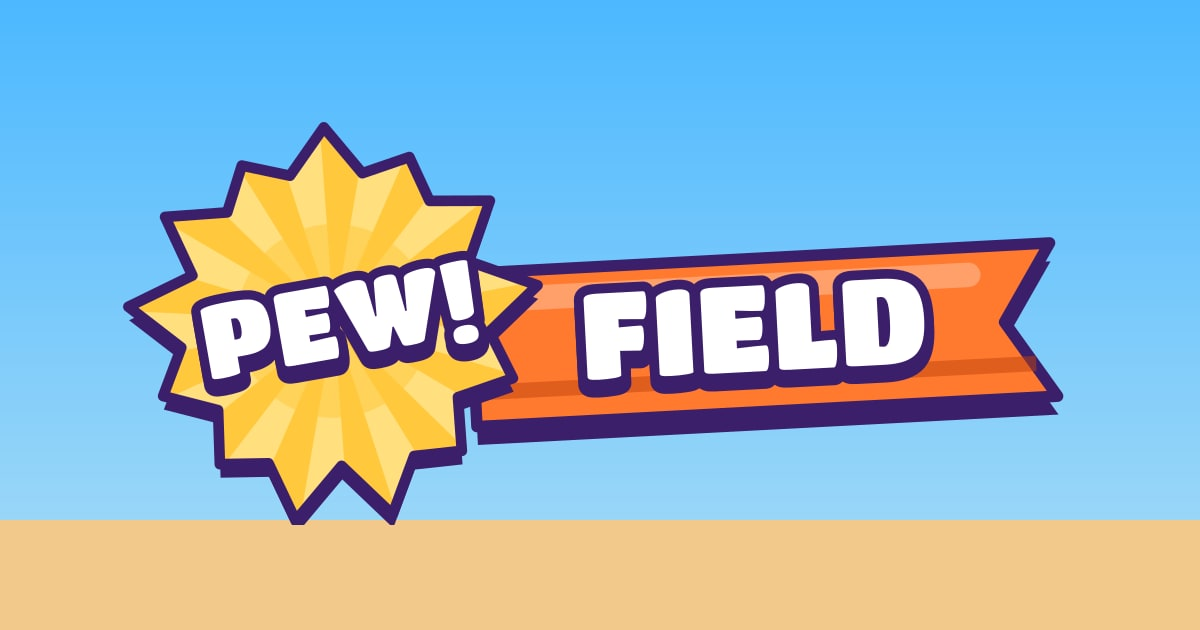
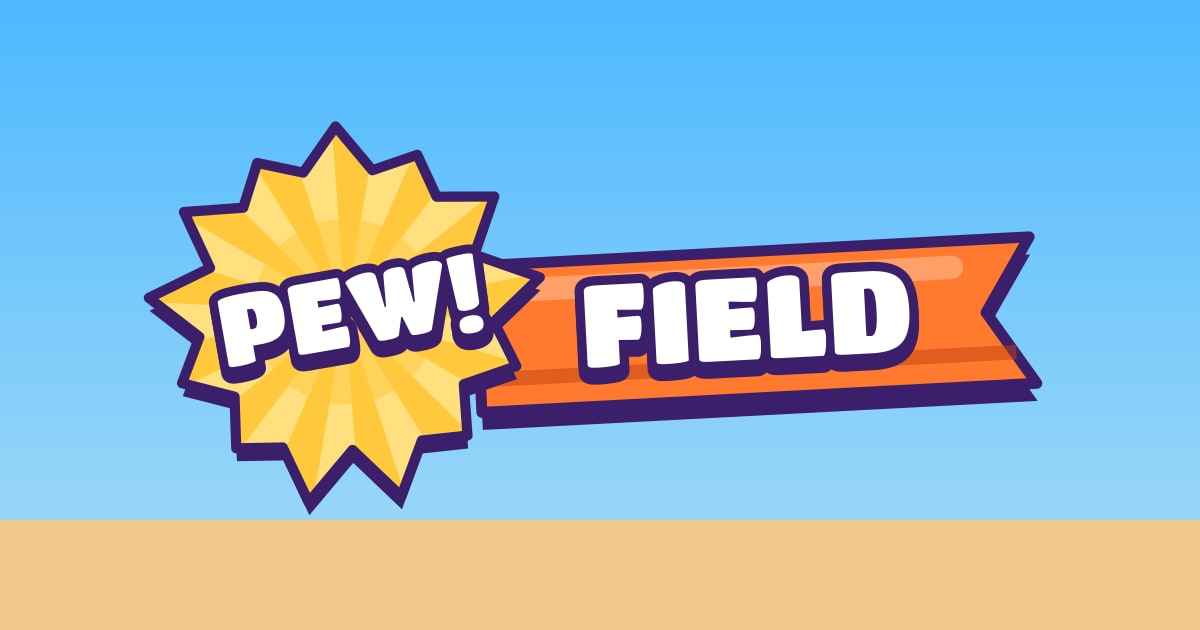
F-065..F-068 + growth E-1..E-8: Pewfield meta copy, field-day tagline, uncut wordmark, grape theme-color, pewfield host metadata
- F-065 (P0): portal meta description = the CD's 149-char line (crazygames-store.md 6); title suffix kept.
- F-066: COPY.tagline 'Two fighters. One field. First to five KOs.'; site description per the CD formula (125 chars).
- F-067: logo SVGs (public + portal/static), inline wordmark and boot screen 1200x544 so the burst's point and drop are whole;
  OG image regenerated from the fixed logo; export script patches the CD source's 520 viewBox. Art ~4 % smaller (353x160),
  layout check 0 issues at 1280/1920 (shots/r029/f067).
- F-068: theme-color #3B1F6B in portal, Next viewport and site.webmanifest.
- Growth E-1..E-8 (nalbaki-games/docs/growth/PEWFIELD-RENAME.md): metadataBase https://pewfield.nalbakigames.com,
  applicationName, full OG/Twitter card, per-page canonical + og:url (/, /play, /characters) via src/lib/siteMeta.ts,
  /arena noindex,follow, README links, lobby test for pewfield invite links. E-9: no storage/Fly rename.

Changed region(s): [[0.0925, 0.181, 0.8942, 0.8444]]

diff --git a/src/components/fieldday/wordmarkArt.ts b/src/components/fieldday/wordmarkArt.ts
@@ -1,3 +1,3 @@
 /** GENERATED by tools/brand/export-pewfield.mjs from the Creative Director's a-wordmark.svg (text already converted to paths). Do not edit. */
-export const WORDMARK_VIEWBOX = '0 0 1200 520';
+export const WORDMARK_VIEWBOX = '0 0 1200 544';
 export const WORDMARK_INNER = "<g transform=\"rotate(-3 600 260)\"><path d=\"M440,200L1160,200L1099.2,295L1160,390L440,390Z\" fill=\"#3B1F6B\" transform=\"translate(0 22.8)\"/><path d=\"M440,200L1160,200L1099.2,295L1160,390L440,390Z\" fill=\"#FF7A2F\" stroke=\"#3B1F6B\" stroke-width=\"14.25\" stroke-linejoin=\"round\"/><rect x=\"451.4\" y=\"219\" width=\"621.2\" height=\"30.400000000000002\" rx=\"15.200000000000001\" fill=\"#fff\" opacity=\".28\"/><path d=\"M440,348.20000000000005L1135.68,348.20000000000005\" stroke=\"#C2410C\" stroke-width=\"19\" opacity=\".5\"/><g><path d=\"M580 335.65V240.55Q580 236.65 583.9 235Q587.8 233.35 598.6 233.35H654.25Q657.4 233.35 657.4 244.68Q657.4 256 655.97 261.93Q654.55 267.85 652.3 267.85L621.85 266.35V276.55Q641.8 275.65 648.55 275.65Q650.8 275.65 651.62 278.05Q652.45 280.45 652.45 287.27Q652.45 294.1 650.95 300.33Q649.45 306.55 646.75 306.55L621.85 305.65V335.65Q621.85 337.9 612.17 338.95Q602.5 340 593.8 340Q585.1 340 582.55 338.95Q580 337.9 580 335.65ZM669.4 336.4V243.1Q669.4 239.8 678.1 236.58Q686.8 233.35 697.6 233.35Q707.2 233.35 710.2 237.4Q711.25 238.9 711.25 240.4V336.4Q711.25 338.05 702.1 339.02Q692.95 340 683.72 340Q674.5 340 671.95 339.18Q669.4 338.35 669.4 336.4ZM800.8 340H737.2Q729.85 340 727.3 338.95Q724.75 337.9 724.75 335.65V240.7Q724.75 236.8 728.27 235.15Q731.8 233.5 740.95 233.5H801.25Q804.4 233.5 804.4 243.93Q804.4 254.35 803.05 259.83Q801.7 265.3 799.45 265.3Q789.7 265.3 766.6 263.35V273.4Q788.8 272.5 795.55 272.5Q799.6 272.5 799.6 281.95Q799.6 291.4 798.03 296.27Q796.45 301.15 793.75 301.15L766.6 300.55V310.15Q792.7 308.2 802.6 308.2Q805.75 308.2 805.75 318.7Q805.75 329.2 804.4 334.6Q803.05 340 800.8 340ZM830.35 340Q822.85 340 820.3 339.18Q817.75 338.35 817.75 336.4V243.1Q817.75 239.8 826.45 236.58Q835.15 233.35 845.95 233.35Q855.55 233.35 858.55 237.4Q859.6 238.9 859.6 240.4V306.85Q877.9 305.65 887.2 305.65Q890.35 305.65 890.35 315.62Q890.35 325.6 889 332.8Q887.65 340 885.4 340ZM948.7 340H913.3Q905.95 340 903.4 338.95Q900.85 337.9 900.85 335.5V240.85Q900.85 236.95 904.15 235.22Q907.45 233.5 915.55 233.5H949.3Q978.1 233.5 989.05 244.82Q1000 256.15 1000 286Q1000 315.85 988.6 327.93Q977.2 340 948.7 340ZM947.5 255.85Q943.9 255.85 942.7 256.45V317.05L948.4 317.65Q952.9 317.65 955.23 310.45Q957.55 303.25 957.55 285.55Q957.55 267.85 955.15 261.85Q952.75 255.85 947.5 255.85Z\" stroke-linejoin=\"round\" paint-order=\"stroke fill\" transform=\"translate(0 10.0)\" fill=\"#3B1F6B\" stroke=\"#3B1F6B\" stroke-width=\"24.0\"/><path d=\"M580 335.65V240.55Q580 236.65 583.9 235Q587.8 233.35 598.6 233.35H654.25Q657.4 233.35 657.4 244.68Q657.4 256 655.97 261.93Q654.55 267.85 652.3 267.85L621.85 266.35V276.55Q641.8 275.65 648.55 275.65Q650.8 275.65 651.62 278.05Q652.45 280.45 652.45 287.27Q652.45 294.1 650.95 300.33Q649.45 306.55 646.75 306.55L621.85 305.65V335.65Q621.85 337.9 612.17 338.95Q602.5 340 593.8 340Q585.1 340 582.55 338.95Q580 337.9 580 335.65ZM669.4 336.4V243.1Q669.4 239.8 678.1 236.58Q686.8 233.35 697.6 233.35Q707.2 233.35 710.2 237.4Q711.25 238.9 711.25 240.4V336.4Q711.25 338.05 702.1 339.02Q692.95 340 683.72 340Q674.5 340 671.95 339.18Q669.4 338.35 669.4 336.4ZM800.8 340H737.2Q729.85 340 727.3 338.95Q724.75 337.9 724.75 335.65V240.7Q724.75 236.8 728.27 235.15Q731.8 233.5 740.95 233.5H801.25Q804.4 233.5 804.4 243.93Q804.4 254.35 803.05 259.83Q801.7 265.3 799.45 265.3Q789.7 265.3 766.6 263.35V273.4Q788.8 272.5 795.55 272.5Q799.6 272.5 799.6 281.95Q799.6 291.4 798.03 296.27Q796.45 301.15 793.75 301.15L766.6 300.55V310.15Q792.7 308.2 802.6 308.2Q805.75 308.2 805.75 318.7Q805.75 329.2 804.4 334.6Q803.05 340 800.8 340ZM830.35 340Q822.85 340 820.3 339.18Q817.75 338.35 817.75 336.4V243.1Q817.75 239.8 826.45 236.58Q835.15 233.35 845.95 233.35Q855.55 233.35 858.55 237.4Q859.6 238.9 859.6 240.4V306.85Q877.9 305.65 887.2 305.65Q890.35 305.65 890.35 315.62Q890.35 325.6 889 332.8Q887.65 340 885.4 340ZM948.7 340H913.3Q905.95 340 903.4 338.95Q900.85 337.9 900.85 335.5V240.85Q900.85 236.95 904.15 235.22Q907.45 233.5 915.55 233.5H949.3Q978.1 233.5 989.05 244.82Q1000 256.15 1000 286Q1000 315.85 988.6 327.93Q977.2 340 948.7 340ZM947.5 255.85Q943.9 255.85 942.7 256.45V317.05L948.4 317.65Q952.9 317.65 955.23 310.45Q957.55 303.25 957.55 285.55Q957.55 267.85 955.15 261.85Q952.75 255.85 947.5 255.85Z\" stroke-linejoin=\"round\" paint-order=\"stroke fill\" fill=\"#FFFFFF\" stroke=\"#3B1F6B\" stroke-width=\"24.0\"/></g><defs><clipPath id=\"c270250240\"><path d=\"M270.0,10.0L314.6,69.2L373.8,52.3L396.0,107.8L470.6,111.5L440.8,185.2L524.0,219.2L461.7,273.3L487.6,332.5L418.4,352.4L419.7,419.0L360.4,422.3L329.9,493.2L270.0,429.8L209.7,494.5L179.8,421.9L119.6,419.8L120.9,352.9L53.9,331.9L79.5,273.1L16.7,219.2L97.9,184.7L67.9,110.5L145.0,108.9L166.1,52.0L225.0,67.6Z\"/></clipPath></defs><path d=\"M270.0,10.0L314.6,69.2L373.8,52.3L396.0,107.8L470.6,111.5L440.8,185.2L524.0,219.2L461.7,273.3L487.6,332.5L418.4,352.4L419.7,419.0L360.4,422.3L329.9,493.2L270.0,429.8L209.7,494.5L179.8,421.9L119.6,419.8L120.9,352.9L53.9,331.9L79.5,273.1L16.7,219.2L97.9,184.7L67.9,110.5L145.0,108.9L166.1,52.0L225.0,67.6Z\" fill=\"#3B1F6B\" transform=\"translate(0 16.8)\"/><path d=\"M270.0,10.0L314.6,69.2L373.8,52.3L396.0,107.8L470.6,111.5L440.8,185.2L524.0,219.2L461.7,273.3L487.6,332.5L418.4,352.4L419.7,419.0L360.4,422.3L329.9,493.2L270.0,429.8L209.7,494.5L179.8,421.9L119.6,419.8L120.9,352.9L53.9,331.9L79.5,273.1L16.7,219.2L97.9,184.7L67.9,110.5L145.0,108.9L166.1,52.0L225.0,67.6Z\" fill=\"#FFC83D\"/><path d=\"M270,250L580.4,281.1L564.0,354.5ZM270,250L530.4,421.8L481.7,479.2ZM270,250L420.7,523.2L351.0,551.3ZM270,250L276.5,561.9L201.7,554.4ZM270,250L130.8,529.2L68.0,487.8ZM270,250L17.0,432.5L-19.4,366.7ZM270,250L-38.9,294.1L-40.4,218.9ZM270,250L-24.0,145.5L9.6,78.2ZM270,250L58.3,20.8L119.3,-23.2ZM270,250L189.0,-51.3L263.5,-61.9ZM270,250L338.3,-54.4L409.2,-29.2ZM270,250L472.0,12.2L523.0,67.5ZM270,250L559.4,133.3L578.9,205.9Z\" fill=\"#FFE38A\" clip-path=\"url(#c270250240)\" opacity=\".85\"/><circle cx=\"270\" cy=\"250\" r=\"120\" fill=\"#FFC83D\" clip-path=\"url(#c270250240)\" opacity=\".55\"/><path d=\"M270.0,10.0L314.6,69.2L373.8,52.3L396.0,107.8L470.6,111.5L440.8,185.2L524.0,219.2L461.7,273.3L487.6,332.5L418.4,352.4L419.7,419.0L360.4,422.3L329.9,493.2L270.0,429.8L209.7,494.5L179.8,421.9L119.6,419.8L120.9,352.9L53.9,331.9L79.5,273.1L16.7,219.2L97.9,184.7L67.9,110.5L145.0,108.9L166.1,52.0L225.0,67.6Z\" fill=\"none\" stroke=\"#3B1F6B\" stroke-width=\"13.2\" stroke-linejoin=\"round\"/><g transform=\"rotate(-7 270 250)\"><path d=\"M144.74 292.37Q144.74 294.03 136.94 295.06Q129.13 296.08 121.32 296.08Q113.51 296.08 111.34 295.18Q109.16 294.29 109.16 292.37V210.06Q109.16 203.92 146.02 203.92Q168.3 203.92 175.46 206.99Q184.17 210.58 187.24 216.72Q191.34 224.66 191.34 237.07Q191.34 254.1 185.45 261.78Q181.22 267.41 177 269.07Q172.78 270.74 170.02 271.44Q167.27 272.14 163.18 272.53Q157.54 273.04 147.82 273.04L144.74 272.91ZM144.87 251.66H147.94Q150.38 251.66 151.78 250.96Q153.19 250.26 154.28 247.12Q155.37 243.98 155.37 238.29Q155.37 232.59 154.15 229.58Q152.94 226.58 151.72 226Q150.5 225.42 148.84 225.42H144.87ZM265.85 296.08H211.58Q205.31 296.08 203.13 295.18Q200.96 294.29 200.96 292.37V211.34Q200.96 208.02 203.96 206.61Q206.97 205.2 214.78 205.2H266.24Q268.92 205.2 268.92 214.1Q268.92 222.99 267.77 227.66Q266.62 232.34 264.7 232.34Q256.38 232.34 236.67 230.67V239.25Q255.61 238.48 261.37 238.48Q264.83 238.48 264.83 246.54Q264.83 254.61 263.48 258.77Q262.14 262.93 259.84 262.93L236.67 262.42V270.61Q258.94 268.94 267.39 268.94Q270.08 268.94 270.08 277.9Q270.08 286.86 268.92 291.47Q267.77 296.08 265.85 296.08ZM315.54 296.08Q309.39 296.08 307.47 295.18Q305.55 294.29 304.78 292.11L276.5 214.03Q276.5 211.6 285.65 208.4Q294.8 205.2 304.14 205.2Q316.18 205.2 316.94 212.75L321.3 253.33H323.09L326.67 212.75Q327.31 205.2 343.95 205.2Q350.35 205.2 352.53 206.93Q354.7 208.66 354.96 211.47L359.18 253.33H360.98L364.3 212.75Q364.69 209.04 373.07 207.12Q381.46 205.2 389.71 205.2Q397.97 205.2 400.98 207.63Q403.98 210.06 403.98 212.75L376.59 292.11Q375.18 296.08 357.65 296.08Q352.4 296.08 350.61 295.18Q348.82 294.29 348.18 292.11L341.52 269.84H339.98L333.2 292.11Q332.05 296.08 315.54 296.08ZM445.22 206.35Q445.22 210.06 442.92 268.05Q442.79 271.25 438.31 273.81Q433.83 276.37 425.64 276.37Q414.5 276.37 413.99 270.35L410.53 206.48Q410.4 205.07 417.83 204.24Q425.25 203.41 435.24 203.41Q445.22 203.41 445.22 206.35ZM412.58 294.93Q412.58 283.41 428.2 283.41Q443.81 283.41 443.81 294.93Q443.81 301.46 439.65 303.95Q435.49 306.45 428 306.45Q420.52 306.45 416.55 304.21Q412.58 301.97 412.58 294.93Z\" stroke-linejoin=\"round\" paint-order=\"stroke fill\" transform=\"translate(0 10.2)\" fill=\"#3B1F6B\" stroke=\"#3B1F6B\" stroke-width=\"23.0\"/><path d=\"M144.74 292.37Q144.74 294.03 136.94 295.06Q129.13 296.08 121.32 296.08Q113.51 296.08 111.34 295.18Q109.16 294.29 109.16 292.37V210.06Q109.16 203.92 146.02 203.92Q168.3 203.92 175.46 206.99Q184.17 210.58 187.24 216.72Q191.34 224.66 191.34 237.07Q191.34 254.1 185.45 261.78Q181.22 267.41 177 269.07Q172.78 270.74 170.02 271.44Q167.27 272.14 163.18 272.53Q157.54 273.04 147.82 273.04L144.74 272.91ZM144.87 251.66H147.94Q150.38 251.66 151.78 250.96Q153.19 250.26 154.28 247.12Q155.37 243.98 155.37 238.29Q155.37 232.59 154.15 229.58Q152.94 226.58 151.72 226Q150.5 225.42 148.84 225.42H144.87ZM265.85 296.08H211.58Q205.31 296.08 203.13 295.18Q200.96 294.29 200.96 292.37V211.34Q200.96 208.02 203.96 206.61Q206.97 205.2 214.78 205.2H266.24Q268.92 205.2 268.92 214.1Q268.92 222.99 267.77 227.66Q266.62 232.34 264.7 232.34Q256.38 232.34 236.67 230.67V239.25Q255.61 238.48 261.37 238.48Q264.83 238.48 264.83 246.54Q264.83 254.61 263.48 258.77Q262.14 262.93 259.84 262.93L236.67 262.42V270.61Q258.94 268.94 267.39 268.94Q270.08 268.94 270.08 277.9Q270.08 286.86 268.92 291.47Q267.77 296.08 265.85 296.08ZM315.54 296.08Q309.39 296.08 307.47 295.18Q305.55 294.29 304.78 292.11L276.5 214.03Q276.5 211.6 285.65 208.4Q294.8 205.2 304.14 205.2Q316.18 205.2 316.94 212.75L321.3 253.33H323.09L326.67 212.75Q327.31 205.2 343.95 205.2Q350.35 205.2 352.53 206.93Q354.7 208.66 354.96 211.47L359.18 253.33H360.98L364.3 212.75Q364.69 209.04 373.07 207.12Q381.46 205.2 389.71 205.2Q397.97 205.2 400.98 207.63Q403.98 210.06 403.98 212.75L376.59 292.11Q375.18 296.08 357.65 296.08Q352.4 296.08 350.61 295.18Q348.82 294.29 348.18 292.11L341.52 269.84H339.98L333.2 292.11Q332.05 296.08 315.54 296.08ZM445.22 206.35Q445.22 210.06 442.92 268.05Q442.79 271.25 438.31 273.81Q433.83 276.37 425.64 276.37Q414.5 276.37 413.99 270.35L410.53 206.48Q410.4 205.07 417.83 204.24Q425.25 203.41 435.24 203.41Q445.22 203.41 445.22 206.35ZM412.58 294.93Q412.58 283.41 428.2 283.41Q443.81 283.41 443.81 294.93Q443.81 301.46 439.65 303.95Q435.49 306.45 428 306.45Q420.52 306.45 416.55 304.21Q412.58 301.97 412.58 294.93Z\" stroke-linejoin=\"round\" paint-order=\"stroke fill\" fill=\"#FFFFFF\" stroke=\"#3B1F6B\" stroke-width=\"23.0\"/></g></g>";

diff --git a/src/app/layout.tsx b/src/app/layout.tsx
@@ -3,8 +3,7 @@ import { Bungee, Chakra_Petch } from 'next/font/google';
 import { GAME_NAME_TITLE } from '~/components/fieldday/brand';
 import { SettingsRoot } from '~/components/menu/SettingsRoot';
 import { TelemetryInit } from '~/components/TelemetryInit';
-import { COPY } from '~/game/copy';
-import { STUDIO_NAME } from '~/lib/studio';
+import { SHARE_OG, SITE_DESCRIPTION, SITE_TITLE, SITE_URL } from '~/lib/siteMeta';
 
 import type { Metadata, Viewport } from 'next';
 import type { ReactNode } from 'react';
@@ -15,12 +14,13 @@ const display = Bungee({ weight: '400', subsets: ['latin'], variable: '--font-bu
 const ui = Chakra_Petch({ weight: ['400', '500', '600', '700'], subsets: ['latin'], variable: '--font-chakra' });
 
 export const metadata: Metadata = {
-  title: { default: `${GAME_NAME_TITLE} — 1v1 shootout · ${STUDIO_NAME}`, template: `%s · ${GAME_NAME_TITLE}` },
-  description: `${COPY.tagline} A two-player shootout from ${STUDIO_NAME}: first to five KOs.`,
+  title: { default: SITE_TITLE, template: `%s · ${GAME_NAME_TITLE}` },
+  description: SITE_DESCRIPTION,
+  applicationName: GAME_NAME_TITLE,
   // Added to the iPhone home screen, it opens full screen with no browser bars.
   appleWebApp: { capable: true, title: GAME_NAME_TITLE, statusBarStyle: 'black-translucent' },
-  // The address stays floor42.nalbakigames.com until the deploy step moves it (pewfield.nalbakigames.com is planned, see the brand README).
-  metadataBase: new URL('https://floor42.nalbakigames.com'),
+  // The game's own host (nalbaki-games/docs/growth/PEWFIELD-RENAME.md E-1); floor42.nalbakigames.com will 308 here.
+  metadataBase: new URL(SITE_URL),
   // Logo and icons: Pewfield logo concept A (docs/collab/CREATIVE/brand), exported by tools/brand/export-pewfield.mjs.
   icons: {
     icon: [
@@ -32,8 +32,9 @@ export const metadata: Metadata = {
     apple: { url: '/apple-touch-icon.png', sizes: '180x180' },
   },
   manifest: '/site.webmanifest',
-  openGraph: { images: [{ url: '/og.jpg', width: 1200, height: 630 }] },
-  twitter: { card: 'summary_large_image', images: ['/og.jpg'] },
+  // Share card (growth E-2). Canonical and og:url live on each page (src/lib/siteMeta.ts says why).
+  openGraph: SHARE_OG,
+  twitter: { card: 'summary_large_image', title: SITE_TITLE, description: SITE_DESCRIPTION, images: ['/og.jpg'] },
 };
 
 /** Phones: no pinch zoom or double-tap zoom in the middle of a fight; draw under the notch. */
@@ -43,7 +44,8 @@ export const viewport: Viewport = {
   maximumScale: 1,
   userScalable: false,
   viewportFit: 'cover',
-  themeColor: '#0B0F1E',
+  // F-068: the brand grape, not the developer-era navy.
+  themeColor: '#3B1F6B',
 };
 
 const RootLayout = ({ children }: { children: ReactNode }) => (

diff --git a/portal/index.html b/portal/index.html
@@ -3,7 +3,7 @@
   <head>
     <meta charset="utf-8" />
     <meta name="viewport" content="width=device-width, initial-scale=1, maximum-scale=1, user-scalable=no, viewport-fit=cover" />
-    <meta name="theme-color" content="#0B0F1E" />
+    <meta name="theme-color" content="#3B1F6B" />
     <link rel="icon" href="./favicon.ico" sizes="48x48" />
     <link rel="icon" href="./favicon.svg" type="image/svg+xml" />
     <link rel="icon" href="./favicon-32.png" type="image/png" sizes="32x32" />
@@ -11,7 +11,7 @@
     <link rel="apple-touch-icon" href="./apple-touch-icon.png" sizes="180x180" />
     <title>%GAME_TITLE%</title>
     <link rel="preload" href="./menu-poster.webp" as="image" type="image/webp" />
-    <meta name="description" content="Pewfield is a 1v1 shootout. Pick a fighter, grab a gun, first to five KOs wins." />
+    <meta name="description" content="Pewfield is a fast 1v1 shootout. Pick one of four fighters, grab guns off the field and race to five KOs against the bot or a friend on one keyboard." />
     <!-- CrazyGames SDK v3. If it cannot load (offline, another portal), the game runs without it. -->
     <script src="https://sdk.crazygames.com/crazygames-sdk-v3.js"></script>
     <link rel="preload" as="font" type="font/woff2" crossorigin href="../src/components/fieldday/fonts/TitanOne-Regular.woff2" />
@@ -39,7 +39,7 @@
       @keyframes sw{from{rotate:-5deg}to{rotate:5deg}}
       #boot *{box-sizing:border-box}
       #boot .wmw{position:absolute;left:50%;top:196px;transform:translateX(-50%)}
-      #boot .wm{margin:0;height:200px;aspect-ratio:1200/520}
+      #boot .wm{margin:0;height:200px;aspect-ratio:1200/544}
       #boot .wm svg{position:static;width:100%;height:100%}
       #boot .bar{position:absolute;left:380px;top:452px;width:520px}
       #boot .track{height:36px;border:4px solid #3B1F6B;border-radius:999px;background:#fff;box-shadow:0 5px 0 #3B1F6B;padding:4px;overflow:hidden}

diff --git a/src/components/fieldday/parts.tsx b/src/components/fieldday/parts.tsx
@@ -272,15 +272,16 @@ export const StatRow = ({ label, n, color }: { label: string; n: number; color?:
  * has no font to wait for, so nothing moves when it loads. The h1 carries the name for assistive tech.
  */
 /**
- * The wordmark slot in design px (F-057 / colour-balance.md section 5): 420 x 160. The art is height-bound (1200:520), so it draws
- * about 369 x 160, the width of the home menu column. The boot screen shows it at 1.25 (vite.portal.config.ts, portal/index.html).
+ * The wordmark slot in design px (F-057 / colour-balance.md section 5): 420 x 160. The art is height-bound (1200:544 since F-067, so
+ * the burst's bottom point and its drop are not cut off), so it draws about 353 x 160. The boot screen shows it at 1.25
+ * (vite.portal.config.ts, portal/index.html).
  */
 export const WORDMARK_SLOT = { w: 420, h: 160 } as const;
-export const WORDMARK_ART_ASPECT = 1200 / 520;
+export const WORDMARK_ART_ASPECT = 1200 / 544;
 
 export const Wordmark = ({ scale = 1, className = '', style }: { scale?: number; className?: string; style?: CSSProperties }) => (
   <div className={className} style={{ width: WORDMARK_SLOT.w * scale, height: WORDMARK_SLOT.h * scale, position: 'relative', ...style }} data-testid="wordmark">
-    <h1 style={{ margin: 0, position: 'absolute', left: 0, top: 0, height: '100%', aspectRatio: '1200 / 520' }}>
+    <h1 style={{ margin: 0, position: 'absolute', left: 0, top: 0, height: '100%', aspectRatio: '1200 / 544' }}>
       <svg
         viewBox={WORDMARK_VIEWBOX}
         role="img"

diff --git a/src/lib/siteMeta.ts b/src/lib/siteMeta.ts
@@ -1,0 +1,27 @@
+import { GAME_NAME_TITLE } from '~/components/fieldday/brand';
+import { COPY } from '~/game/copy';
+
+import type { Metadata } from 'next';
+
+import { STUDIO_NAME } from './studio';
+
+/**
+ * The site's share metadata, one place for the layout and the pages (pure data: the server renders it).
+ * Next merges `openGraph` shallowly, so a page that sets its own `og:url` spreads SHARE_OG and adds `url`.
+ * Canonical and og:url are set per page, not in the layout, so pages without one (the 404, /arena) do not point at the home page.
+ */
+export const SITE_URL = 'https://pewfield.nalbakigames.com';
+export const SITE_TITLE = `${GAME_NAME_TITLE} — 1v1 shootout · ${STUDIO_NAME}`;
+// F-066 (crazygames-store.md section 6): the field-day tagline plus the two ways to play. Replaces growth E-3's draft (CD copy wins).
+export const SITE_DESCRIPTION = `${COPY.tagline} A fast 1v1 shootout from ${STUDIO_NAME}: play the bot or a friend on one keyboard.`;
+
+export const SHARE_OG: NonNullable<Metadata['openGraph']> = {
+  type: 'website',
+  siteName: GAME_NAME_TITLE,
+  title: SITE_TITLE,
+  description: SITE_DESCRIPTION,
+  images: [{ url: '/og.jpg', width: 1200, height: 630, alt: 'Pewfield logo: the word PEW! in a yellow burst and FIELD on an orange pennant' }],
+};
+
+/** Canonical + og:url for an indexable page. */
+export const pageUrlMeta = (path: string): Metadata => ({ alternates: { canonical: path }, openGraph: { ...SHARE_OG, url: path } });

diff --git a/src/components/fieldday/fieldday.test.ts b/src/components/fieldday/fieldday.test.ts
@@ -61,9 +61,10 @@ describe('wordmark slot (R-023)', () => {
     expect(GAME_NAME).toBe('PEWFIELD');
     expect(GAME_NAME_TITLE).toBe('Pewfield');
   });
-  it('F-057: the slot is 420x160 and the art (height-bound) is at least 360 px wide', () => {
+  it('F-057/F-067: the slot is 420x160 and the art (height-bound, 1200:544) is at least 350 px wide', () => {
     expect(WORDMARK_SLOT).toEqual({ w: 420, h: 160 });
-    expect(WORDMARK_SLOT.h * WORDMARK_ART_ASPECT).toBeGreaterThanOrEqual(360);
+    // F-067 grew the viewBox 520 -> 544 so the burst is not clipped; the CD accepted the ~4 % smaller art (369 -> 353 px).
+    expect(WORDMARK_SLOT.h * WORDMARK_ART_ASPECT).toBeGreaterThanOrEqual(350);
     expect(WORDMARK_SLOT.h * WORDMARK_ART_ASPECT).toBeLessThanOrEqual(WORDMARK_SLOT.w);
   });
   it('the boot screen draws the wordmark at 1.25 of the slot', () => {

diff --git a/src/components/lobby/lobbyView.test.ts b/src/components/lobby/lobbyView.test.ts
@@ -151,6 +151,10 @@ describe('room input', () => {
   it('takes the room of an invite link', () => {
     expect(parseRoomInput('https://floor42.nalbakigames.com/play?room=AbC12')).toBe('AbC12');
   });
+  it('takes the room of a link on the new host, and old floor42 links still parse (growth E-8)', () => {
+    expect(parseRoomInput('https://pewfield.nalbakigames.com/play?room=AbC12')).toBe('AbC12');
+    expect(parseRoomInput('https://floor42.nalbakigames.com/play?room=Xy9_z')).toBe('Xy9_z');
+  });
   it('a link without a room is empty, so Join does nothing', () => {
     expect(parseRoomInput('https://floor42.nalbakigames.com/play')).toBe('');
   });

diff --git a/src/game/copy.ts b/src/game/copy.ts
@@ -39,8 +39,8 @@ export const healthLine = (traits: boolean): string => {
 };
 
 export const COPY = {
-  /** Under the logo on the main menu, and the page description. */
-  tagline: 'Two coworkers. One grudge. No mercy.',
+  /** The one-line pitch: the start of the site's meta description (F-066, crazygames-store.md section 6). */
+  tagline: 'Two fighters. One field. First to five KOs.',
   /** The win condition, short (menu entry, online lobby). */
   goal: `First to ${K} KOs wins`,
   /** The sub-label under PLAY on the home screen (R-013 4.2, F-026); `{name}` is the current fighter, `{level}` the bot level. */

diff --git a/src/app/arena/page.tsx b/src/app/arena/page.tsx
@@ -5,7 +5,8 @@ import { parseLength } from '~/game/twoPlayer';
 import type { CharacterId } from '~/game/sim/types';
 import type { Metadata } from 'next';
 
-export const metadata: Metadata = { title: 'Arena' };
+// Endless ?p1=&p2=&bot= variants with no content of their own: keep them out of the index (growth E-5).
+export const metadata: Metadata = { title: 'Arena', robots: { index: false, follow: true } };
 
 interface Props {
   searchParams: Promise<{ p1?: string; p2?: string; demo?: string; bot?: string; mode?: string; n?: string; arena?: string }>;

diff --git a/src/game/copy.test.ts b/src/game/copy.test.ts
@@ -56,7 +56,8 @@ describe('copy table', () => {
       }
     }
     for (const r of ROSTER) for (const line of [r.name, r.personality, r.trait, r.traitLine]) expect(line, r.id).not.toMatch(JARGON);
-    expect(copyFor().tagline).toBe('Two coworkers. One grudge. No mercy.');
+    // F-066: the office tagline is retired; the pitch is the field-day one (same as the README).
+    expect(copyFor().tagline).toBe('Two fighters. One field. First to five KOs.');
   });
 
   it('a saved audience answer from an old build is dropped: one voice for everyone', () => {

diff --git a/src/app/play/page.tsx b/src/app/play/page.tsx
@@ -1,8 +1,10 @@
 import { OnlineLobby } from '~/components/OnlineLobby';
+import { pageUrlMeta } from '~/lib/siteMeta';
 
 import type { Metadata } from 'next';
 
-export const metadata: Metadata = { title: 'Play online' };
+// Invite links (?room=) all collapse to one canonical page (growth E-5).
+export const metadata: Metadata = { title: 'Play online', ...pageUrlMeta('/play') };
 
 interface Props {
   searchParams: Promise<{ room?: string }>;

diff --git a/src/app/page.tsx b/src/app/page.tsx
@@ -1,6 +1,11 @@
 import { MainMenu } from '~/components/menu/MainMenu';
 import { isCharacterId } from '~/game/roster';
 import { parseLength } from '~/game/twoPlayer';
+import { pageUrlMeta } from '~/lib/siteMeta';
+
+import type { Metadata } from 'next';
+
+export const metadata: Metadata = pageUrlMeta('/');
 
 interface Props {
   searchParams: Promise<{ select?: string; '2p'?: string; p1?: string; p2?: string; n?: string; keep?: string }>;
